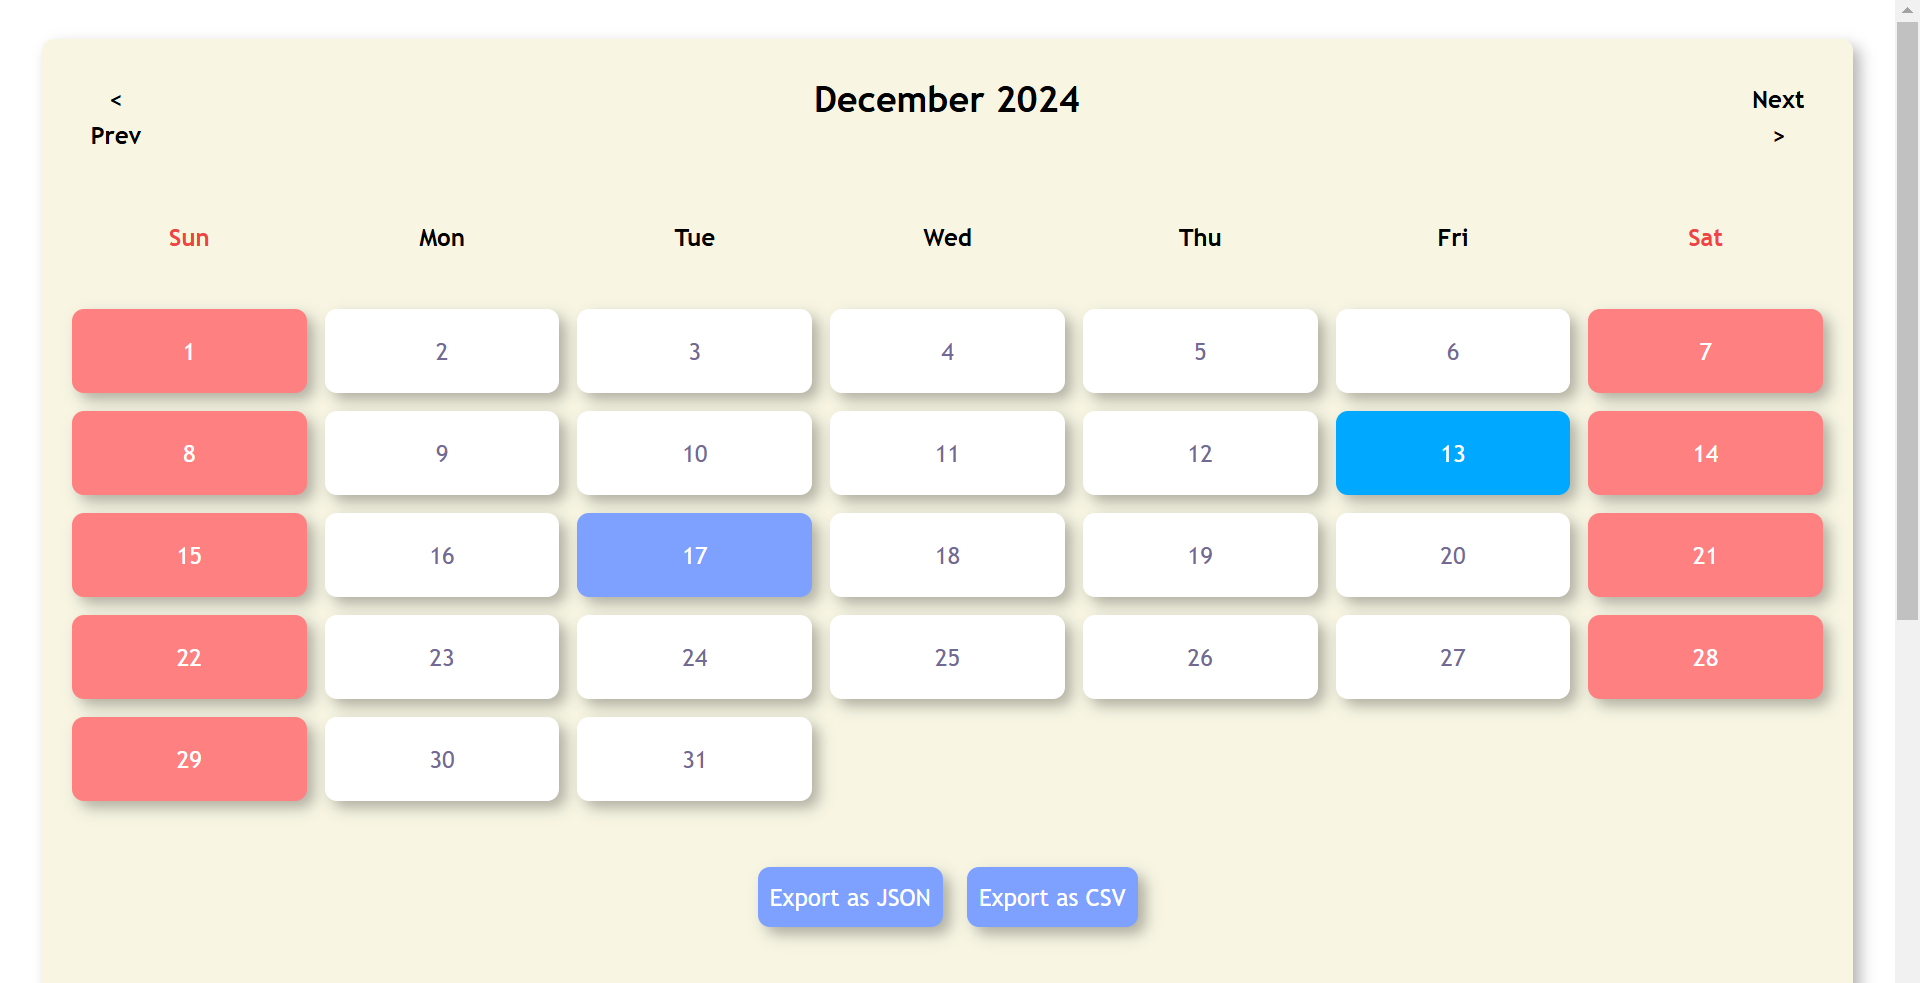
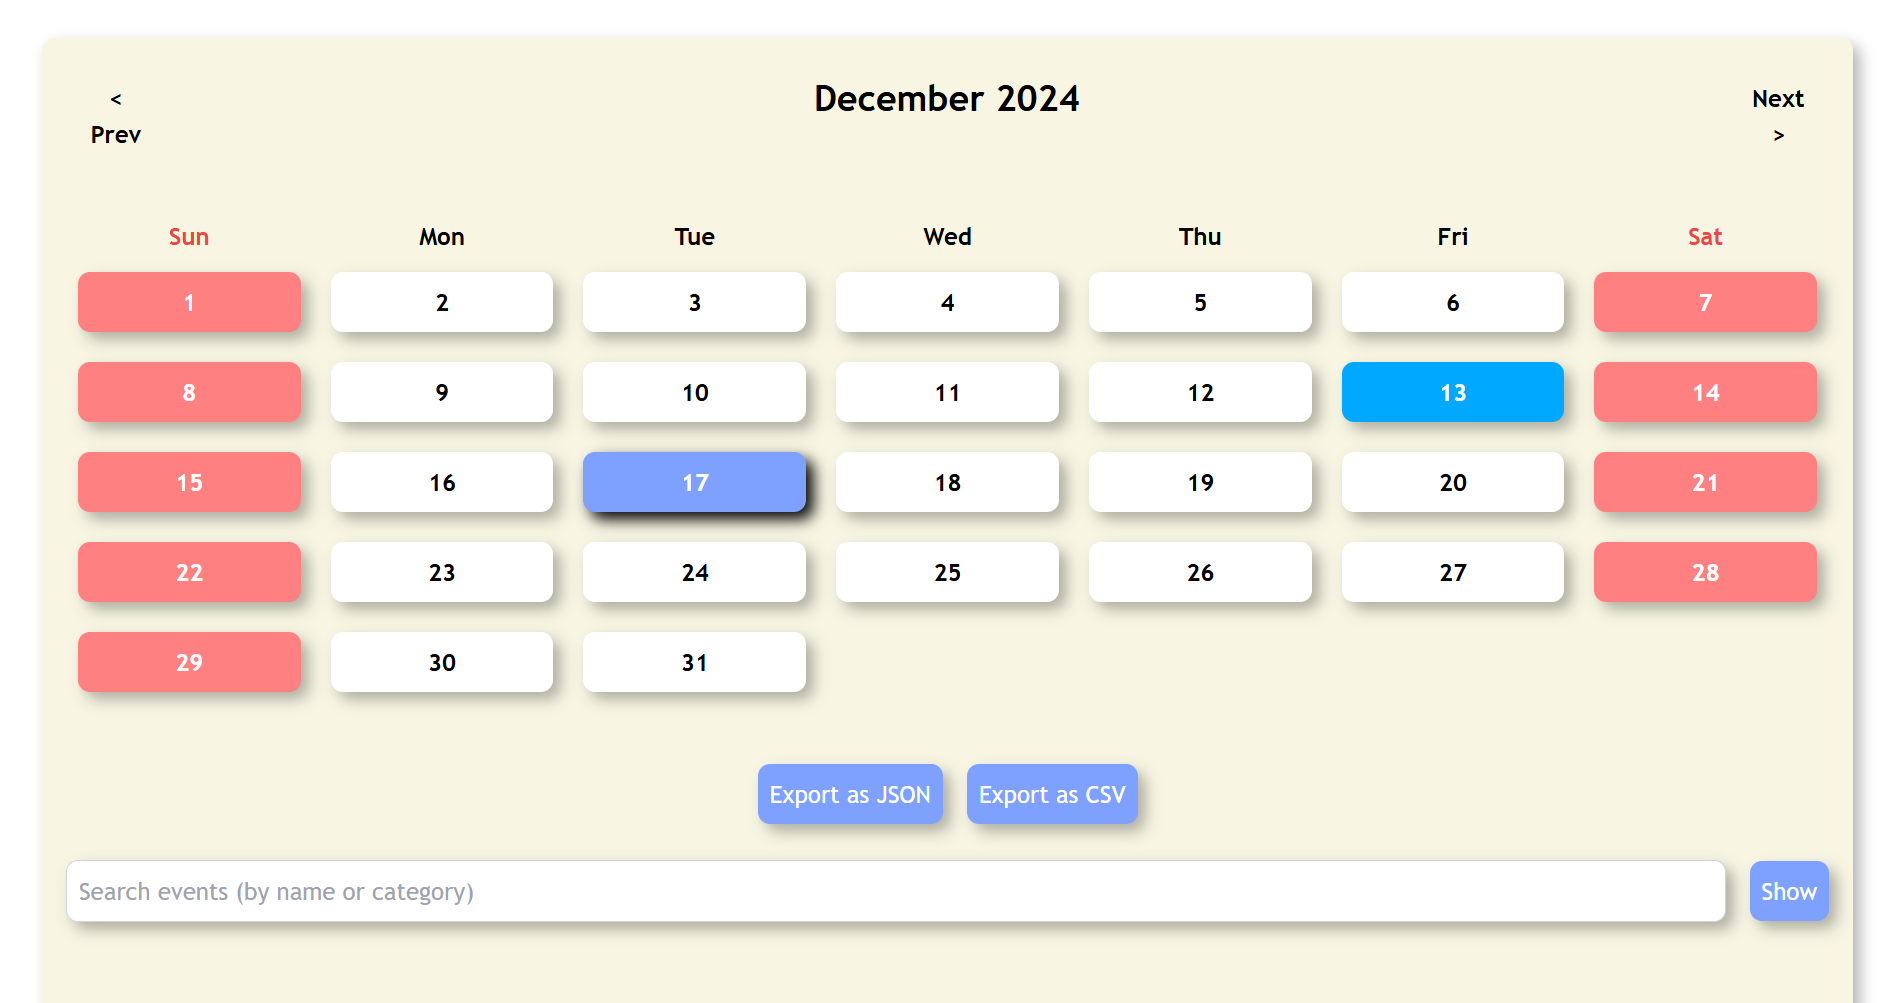
13-12-2024

diff --git a/src/components/Calendar.jsx b/src/components/Calendar.jsx
@@ -1,38 +1,54 @@
 import React, { useState } from "react";
 import { EventModal } from "./EventModal";
 import { EventList } from "./EventList";
-import { getCurrentMonthDays } from "../utils/storage";
-import { saveAs } from "file-saver"; 
+import { saveAs } from "file-saver";
+import { FilterEventsModal } from "./FilterEventsModal"; // Import the filter modal
 
 export const Calendar = () => {
     const [currentDate, setCurrentDate] = useState(new Date());
     const [events, setEvents] = useState([]);
     const [selectedDay, setSelectedDay] = useState(null);
     const [isModalOpen, setIsModalOpen] = useState(false);
-
-    const todayDate = new Date();
-    const today = todayDate.getDate();
-    const currentMonthDays = getCurrentMonthDays(currentDate);
+    const [isFilterModalOpen, setIsFilterModalOpen] = useState(false); // State for filter modal
+    const [searchKeyword, setSearchKeyword] = useState(""); // Search keyword state
 
     const dayNames = ["Sun", "Mon", "Tue", "Wed", "Thu", "Fri", "Sat"];
+    const todayDate = new Date();
+    const today = todayDate.getDate();
 
-    const getStartDayOfMonth = (date) => {
-        const firstDayOfMonth = new Date(date.getFullYear(), date.getMonth(), 1);
-        return firstDayOfMonth.getDay();
-    };
+    const getStartDayOfMonth = (year, month) => new Date(year, month, 1).getDay();
+    const getDaysInMonth = (year, month) => new Date(year, month + 1, 0).getDate();
 
     const handlePrevMonth = () => {
-        const prevMonth = new Date(currentDate);
-        prevMonth.setMonth(prevMonth.getMonth() - 1);
-        prevMonth.setDate(1);
-        setCurrentDate(prevMonth);
+        setCurrentDate((prevDate) => {
+            const newMonth = prevDate.getMonth() - 1;
+            const newYear = newMonth < 0 ? prevDate.getFullYear() - 1 : prevDate.getFullYear();
+            return new Date(newYear, (newMonth + 12) % 12, 1);
+        });
     };
 
     const handleNextMonth = () => {
-        const nextMonth = new Date(currentDate);
-        nextMonth.setMonth(nextMonth.getMonth() + 1);
-        nextMonth.setDate(1);
-        setCurrentDate(nextMonth);
+        setCurrentDate((prevDate) => {
+            const newMonth = prevDate.getMonth() + 1;
+            const newYear = newMonth > 11 ? prevDate.getFullYear() + 1 : prevDate.getFullYear();
+            return new Date(newYear, newMonth % 12, 1);
+        });
+    };
+
+    const getDaysForCalendar = () => {
+        const year = currentDate.getFullYear();
+        const month = currentDate.getMonth();
+        const startDay = getStartDayOfMonth(year, month);
+        const daysInMonth = getDaysInMonth(year, month);
+        const daysGrid = [];
+
+        for (let i = 0; i < startDay; i++) {
+            daysGrid.push(null);
+        }
+        for (let i = 1; i <= daysInMonth; i++) {
+            daysGrid.push(i);
+        }
+        return daysGrid;
     };
 
     const handleSelectDay = (day) => {
@@ -42,22 +58,6 @@ export const Calendar = () => {
 
     const closeModal = () => {
         setIsModalOpen(false);
-    };
-
-    const getDaysForCalendar = () => {
-        const startDay = getStartDayOfMonth(currentDate);
-        const daysInMonth = currentMonthDays.length;
-        const daysGrid = [];
-
-        for (let i = 0; i < startDay; i++) {
-            daysGrid.push(null);
-        }
-
-        for (let i = 1; i <= daysInMonth; i++) {
-            daysGrid.push(i);
-        }
-
-        return daysGrid;
     };
 
     const exportEventsAsJson = (events) => {
@@ -73,9 +73,18 @@ export const Calendar = () => {
         saveAs(csvBlob, "events.csv");
     };
 
+    // Filter events based on the keyword (event name or category)
+    const filterEvents = () => {
+        if (!searchKeyword) return events; // Return all events if no search keyword
+        return events.filter((event) =>
+            event.eventName.toLowerCase().includes(searchKeyword.toLowerCase()) ||
+            event.category.toLowerCase().includes(searchKeyword.toLowerCase())
+        );
+    };
 
     return (
         <div className="bg-secondary min-h-screen rounded-lg shadow-[5px_5px_10px_0px_rgba(0,_0,_0,_0.3)]">
+            {/* Calendar Grid */}
             <div className="flex justify-between p-4 text-text">
                 <button className="p-3 font-semibold hover:rounded-lg hover:shadow-[5px_5px_10px_0px_rgba(0,_0,_0,_0.3)]" onClick={handlePrevMonth}>&lt; Prev</button>
                 <h1 className="p-2 font-semibold text-2xl sm:text-center w-full">
@@ -88,29 +97,36 @@ export const Calendar = () => {
                 {dayNames.map((dayName, index) => (
                     <div
                         key={index}
-                        className={`text-center ${dayName === "Sun" || dayName === "Sat" ? "text-red-500" : "text-black"}`}
+                        className={`text-center font-semibold ${index === 0 || index === 6 ? "text-red-500" : "text-black"}`}
                     >
                         {dayName}
                     </div>
                 ))}
-            </div>
 
-
-            <div className="grid grid-cols-7 gap-1 p-4">
                 {getDaysForCalendar().map((day, index) => {
                     if (day === null) {
-                        return <div key={index} className="flex justify-center items-center p-4"></div>;
+                        return <div key={index} className="p-4"></div>;
                     }
 
-                    const dayOfWeek = new Date(currentDate.getFullYear(), currentDate.getMonth(), day).getDay();
+                    const isToday =
+                        day === today &&
+                        currentDate.getMonth() === todayDate.getMonth() &&
+                        currentDate.getFullYear() === todayDate.getFullYear();
+
+                    const isSelected = day === selectedDay;
+
+                    const isFirstColumn = index % 7 === 0;
+                    const isLastColumn = index % 7 === 6;
 
                     return (
                         <div
-                            key={day}
-                            className={`flex justify-center items-center p-4 m-1 cursor-pointer rounded-lg shadow-[5px_5px_10px_0px_rgba(0,_0,_0,_0.3)] hover:shadow-black transition-shadow 
-                    ${selectedDay === day ? "bg-primary text-white" :
-                                    today === day && currentDate.getMonth() === todayDate.getMonth() ? "bg-curr text-white" :
-                                        index % 7 === 6 || index % 7 === 0 ? "bg-weekend text-white" : "bg-white"}`}
+                            key={index}
+                            className={`p-2 m-2 text-center cursor-pointer rounded-lg shadow-[5px_5px_10px_0px_rgba(0,_0,_0,_0.3)] 
+                    hover:shadow-black transition-shadow 
+                    ${isToday ? "bg-curr text-white font-bold" : ""}
+                    ${isSelected ? "bg-primary text-white font-bold" : ""}
+                    ${!isToday && !isSelected ? "bg-white" : ""}
+                    ${isFirstColumn || isLastColumn ? "bg-weekend text-white" : ""}`} // Apply red background for first and last columns
                             onClick={() => handleSelectDay(day)}
                         >
                             {day}
@@ -119,12 +135,37 @@ export const Calendar = () => {
                 })}
             </div>
 
-
-
             <div className="flex justify-center space-x-4 mt-4 py-2">
-                <button onClick={() => exportEventsAsJson(events)} className="bg-primary text-white p-2 rounded-lg shadow-[5px_5px_10px_0px_rgba(0,_0,_0,_0.3)] hover:shadow-black transition-shadow">Export as JSON</button>
-                <button onClick={() => exportEventsAsCsv(events)} className="bg-primary text-white p-2 rounded-lg shadow-[5px_5px_10px_0px_rgba(0,_0,_0,_0.3)] hover:shadow-black transition-shadow">Export as CSV</button>
+                <button onClick={() => exportEventsAsJson(events)} className="bg-primary text-white p-2 rounded-lg shadow-[5px_5px_10px_0px_rgba(0,_0,_0,_0.3)] 
+                    hover:shadow-black transition-shadow ">Export as JSON</button>
+                <button onClick={() => exportEventsAsCsv(events)} className="bg-primary text-white p-2 rounded-lg shadow-[5px_5px_10px_0px_rgba(0,_0,_0,_0.3)] 
+                    hover:shadow-black transition-shadow ">Export as CSV</button>
             </div>
+
+            {/* Search bar */}
+            <div className="p-4 flex items-center space-x-4">
+                <input
+                    type="text"
+                    placeholder="Search events on day (by name or category)"
+                    value={searchKeyword}
+                    onChange={(e) => setSearchKeyword(e.target.value)}
+                    className="p-2 w-full border border-gray-300 rounded-lg shadow-[5px_5px_10px_0px_rgba(0,_0,_0,_0.3)] hover:shadow-black transition-shadow"
+                />
+                <button
+                    onClick={() => setIsFilterModalOpen(true)}
+                    className="bg-primary text-white p-2 rounded-lg shadow-[5px_5px_10px_0px_rgba(0,_0,_0,_0.3)] hover:shadow-black transition-shadow"
+                >
+                    Show
+                </button>
+            </div>
+
+
+            {isFilterModalOpen && (
+                <FilterEventsModal
+                    events={filterEvents()}
+                    closeModal={() => setIsFilterModalOpen(false)}
+                />
+            )}
 
             {isModalOpen && (
                 <EventModal day={selectedDay} events={events} setEvents={setEvents} closeModal={closeModal} />

diff --git a/src/components/EventModal.jsx b/src/components/EventModal.jsx
@@ -9,13 +9,27 @@ export const EventModal = ({ day, events, setEvents, closeModal }) => {
 
     const handleAddEvent = () => {
         const newEvent = { day, eventName, startTime, endTime, description, category };
+
+        // Check for overlapping events
+        const isOverlap = events.some(
+            (event) =>
+                event.day === day &&
+                ((newEvent.startTime >= event.startTime && newEvent.startTime < event.endTime) ||
+                    (newEvent.endTime > event.startTime && newEvent.endTime <= event.endTime))
+        );
+
+        if (isOverlap) {
+            alert("This event overlaps with another event on the same day.");
+            return;
+        }
+
         const updatedEvents = [...events, newEvent];
         localStorage.setItem("events", JSON.stringify(updatedEvents));
         setEvents(updatedEvents);
         closeModal();
     };
 
-    // To check if all mandatory fields are filled up
+    // Mandatory fields check
     const validateForm = () => {
         if (!eventName || !startTime || !endTime || !category) {
             alert('Please fill in all required fields');
@@ -26,50 +40,49 @@ export const EventModal = ({ day, events, setEvents, closeModal }) => {
 
     const handleSubmit = () => {
         if (validateForm()) {
-            handleAddEvent(eventName, startTime, endTime, description, category);
-            closeModal();
+            handleAddEvent();
         }
     };
 
     return (
         <div className="fixed top-0 left-0 w-full h-full bg-gray-500 bg-opacity-50 flex justify-center items-center">
-            <div className="bg-primary p-6 relative w-96 rounded-lg shadow-[5px_5px_10px_0px_rgba(0,_0,_0,_0.3)]">
+            <div className="bg-secondary p-6 relative w-96 rounded-lg shadow-[5px_5px_10px_0px_rgba(0,_0,_0,_0.3)]">
                 <button
                     onClick={closeModal}
-                    className="absolute top-3 right-4 p-3 text-white hover:bg-red-900 hover:rounded-lg hover:shadow-[5px_5px_10px_0px_rgba(0,_0,_0,_0.3)]"
+                    className="absolute top-3 right-4 p-3 text-text hover:bg-red-900 hover:text-white hover:rounded-lg hover:shadow-[5px_5px_10px_0px_rgba(0,_0,_0,_0.3)]"
                 >
                     &times;
                 </button>
 
-                <h2 className="text-white text-xl mb-4">Add Event</h2>
+                <h2 className="text-primary font-semibold text-xl mb-4">Add Event</h2>
 
                 <input
                     type="text"
                     placeholder="Event Name"
                     value={eventName}
                     onChange={(e) => setEventName(e.target.value)}
-                    className="w-full p-2 mb-4 border border-gray-300 rounded-lg shadow-[5px_5px_10px_0px_rgba(0,_0,_0,_0.3)]"
+                    className="w-full p-2 mb-4 border border-gray-300 rounded-lg shadow-[5px_5px_10px_0px_rgba(0,_0,_0,_0.3)] hover:shadow-black"
                 />
 
                 <input
                     type="time"
                     value={startTime}
                     onChange={(e) => setStartTime(e.target.value)}
-                    className="w-full p-2 mb-4 border border-gray-300 rounded-lg shadow-[5px_5px_10px_0px_rgba(0,_0,_0,_0.3)]"
+                    className="w-full p-2 mb-4 border border-gray-300 rounded-lg shadow-[5px_5px_10px_0px_rgba(0,_0,_0,_0.3)] hover:shadow-black"
                 />
 
                 <input
                     type="time"
                     value={endTime}
                     onChange={(e) => setEndTime(e.target.value)}
-                    className="w-full p-2 mb-4 border border-gray-300 rounded-lg shadow-[5px_5px_10px_0px_rgba(0,_0,_0,_0.3)]"
+                    className="w-full p-2 mb-4 border border-gray-300 rounded-lg shadow-[5px_5px_10px_0px_rgba(0,_0,_0,_0.3)] hover:shadow-black"
                 />
 
                 <textarea
-                    placeholder="Description (Optional)" 
+                    placeholder="Description (Optional)"
                     value={description}
                     onChange={(e) => setDescription(e.target.value)}
-                    className="w-full p-2 mb-4 border border-gray-300 rounded-lg shadow-[5px_5px_10px_0px_rgba(0,_0,_0,_0.3)]"
+                    className="w-full p-2 mb-4 border border-gray-300 rounded-lg shadow-[5px_5px_10px_0px_rgba(0,_0,_0,_0.3)] hover:shadow-black"
                 />
 
                 <div className="mb-4">
@@ -78,7 +91,7 @@ export const EventModal = ({ day, events, setEvents, closeModal }) => {
                         id="category"
                         value={category}
                         onChange={(e) => setCategory(e.target.value)}
-                        className="w-full p-2 border border-gray-300 rounded-lg shadow-[5px_5px_10px_0px_rgba(0,_0,_0,_0.3)]"
+                        className="w-full p-2 border border-gray-300 rounded-lg shadow-[5px_5px_10px_0px_rgba(0,_0,_0,_0.3)] hover:shadow-black"
                     >
                         <option value="work">Work</option>
                         <option value="personal">Personal</option>
@@ -88,7 +101,7 @@ export const EventModal = ({ day, events, setEvents, closeModal }) => {
 
                 <button
                     onClick={handleSubmit}
-                    className="min-w-full p-2 bg-secondary text-primary font-bold rounded-lg hover:bg-gray-300 hover:rounded-lg hover:shadow-[5px_5px_10px_0px_rgba(0,_0,_0,_0.3)]"
+                    className="min-w-full p-2 bg-primary rounded-lg shadow-[5px_5px_10px_0px_rgba(0,_0,_0,_0.3)] text-white hover:shadow-black"
                 >
                     Add Event
                 </button>

diff --git a/src/components/FilterEventsModal.jsx b/src/components/FilterEventsModal.jsx
@@ -1,0 +1,30 @@
+import React from "react";
+
+export const FilterEventsModal = ({ events, closeModal }) => {
+    return (
+        <div className="fixed top-0 left-0 w-full h-full bg-gray-500 bg-opacity-50 flex justify-center items-center">
+            <div className="bg-secondary p-6 relative w-96 rounded-lg shadow-[5px_5px_10px_0px_rgba(0,_0,_0,_0.3)]">
+                <button
+                    onClick={closeModal}
+                    className="absolute top-3 right-4 p-3 text-text hover:bg-red-900 hover:rounded-lg hover:shadow-[5px_5px_10px_0px_rgba(0,_0,_0,_0.3)]"
+                >
+                    &times;
+                </button>
+
+                <h2 className="text-primary font-semibold text-xl mb-4">Filtered Events</h2>
+
+                {events.length === 0 ? (
+                    <p className="text-text">No events found based on your search.</p>
+                ) : (
+                    events.map((event, index) => (
+                        <div key={index} className="mb-4 p-2 rounded-lg  shadow-[5px_5px_10px_0px_rgba(0,_0,_0,_0.3)] hover:shadow-black">
+                            <h4 className="font-bold text-primary">{event.eventName}</h4>
+                            <p className="text-text">{event.startTime} - {event.endTime}</p>
+                            <p className="text-text">{event.category}</p>
+                        </div>
+                    ))
+                )}
+            </div>
+        </div>
+    );
+};

diff --git a/README.md b/README.md
@@ -21,9 +21,11 @@
 ## Features
 
 - Calendar View
-- Event Management
-- Event List
+- Event Management (Prevention of overlapping of events; Add or Delete events)
+- Event List (Display list of events on selected day)
 - Data Persistence on Page refreshment
+- Clean and modern UI
+- Filter events on selected day
 - Color coding for different Events (such as Work, Personal and others)
 - Export the Event List as JSON or CSV file
 
@@ -32,10 +34,11 @@
 
 The project is deployed on Vercel: <em>https://evasabeeh-calendar.vercel.app/</em>
 
+
 ## Insights
 
 - Large Screen View
-<img src="public\screenshot1.png" alt="desktop" width="220" height="110"/> 
+<img src="public\screenshot1.png" alt="desktop" width="250" height="250"/> 
 
 - Mobile Screen View
 <img src="public\screenshot2.png" alt="mobile" width="70" height="150"/> 
